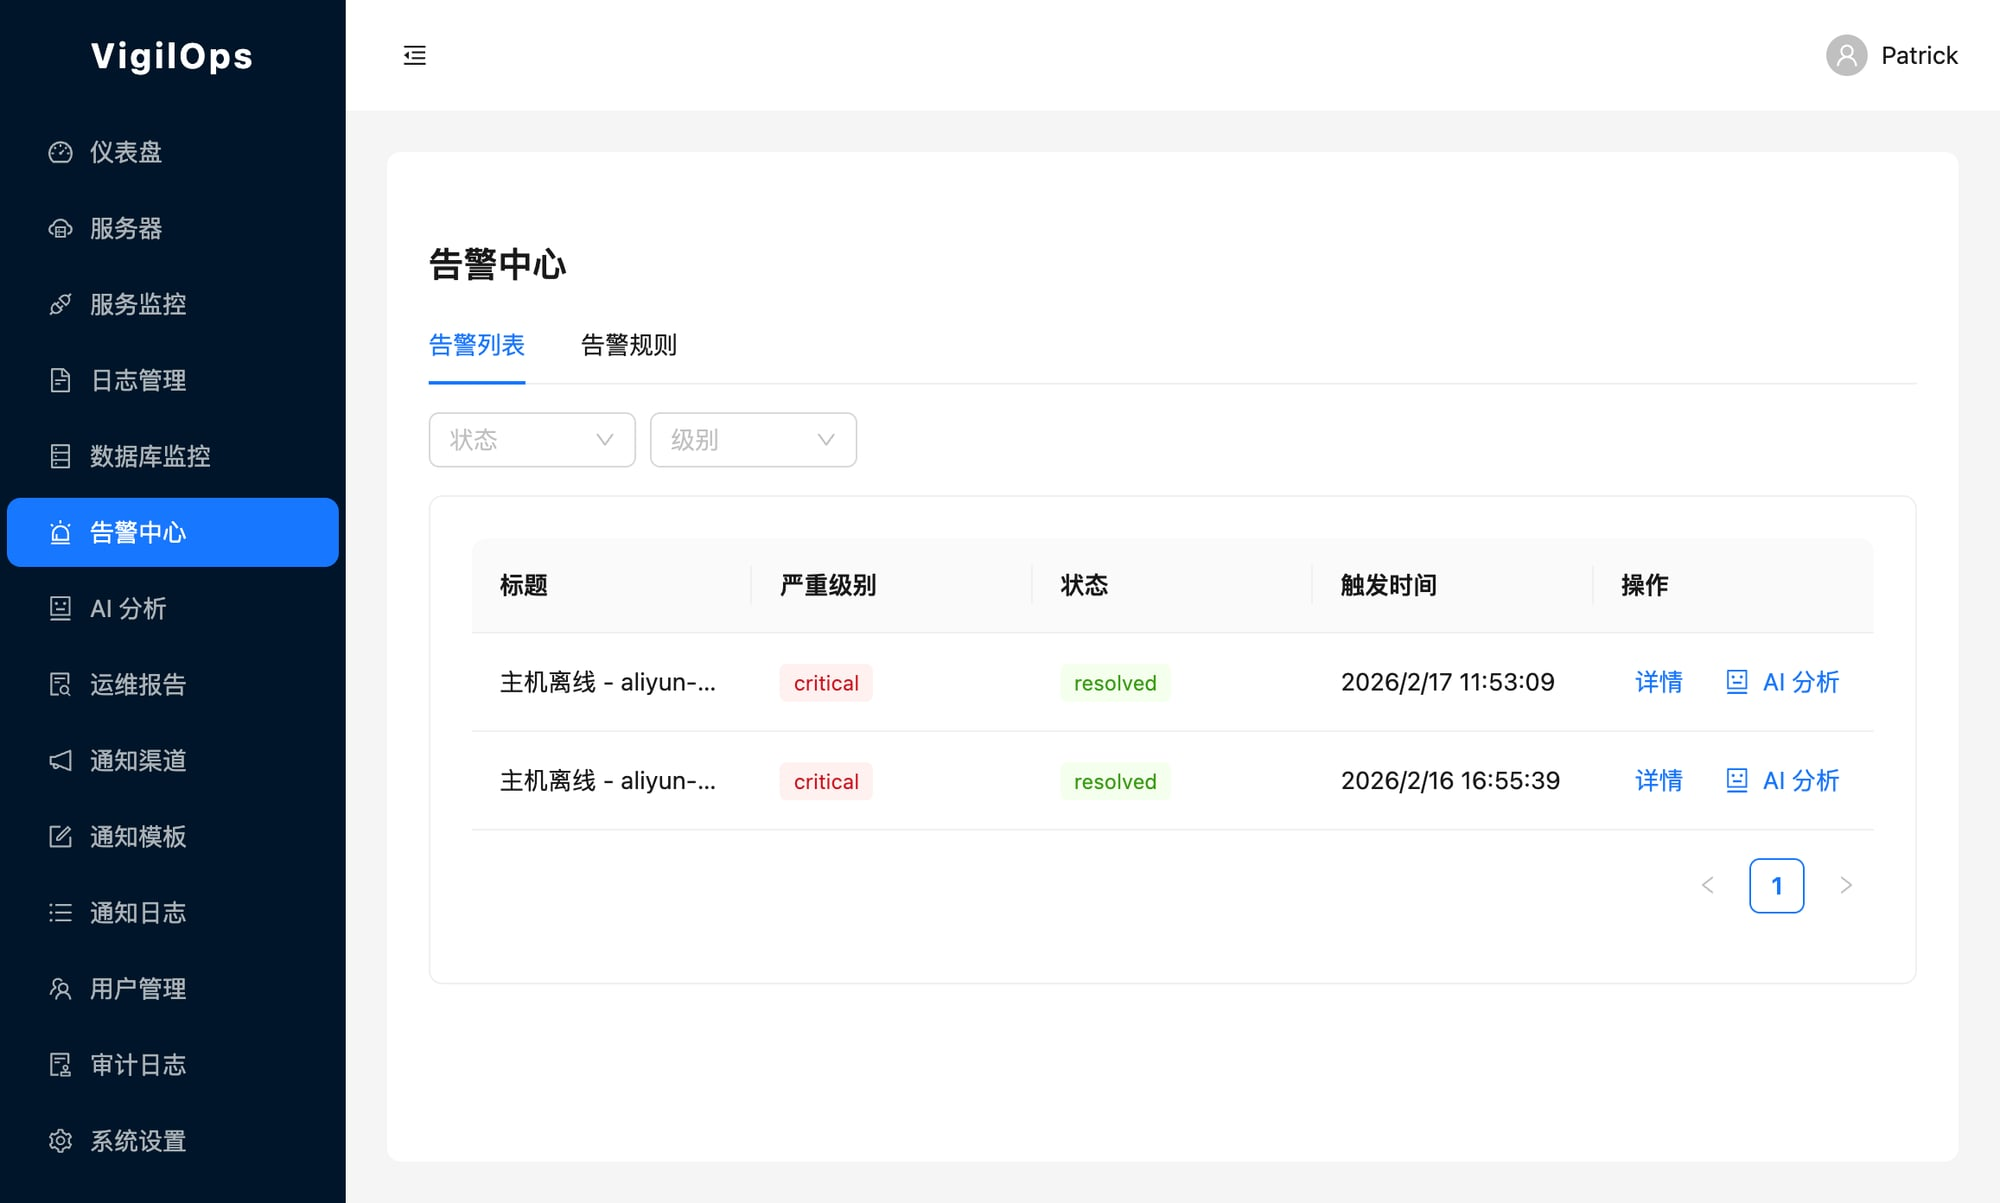
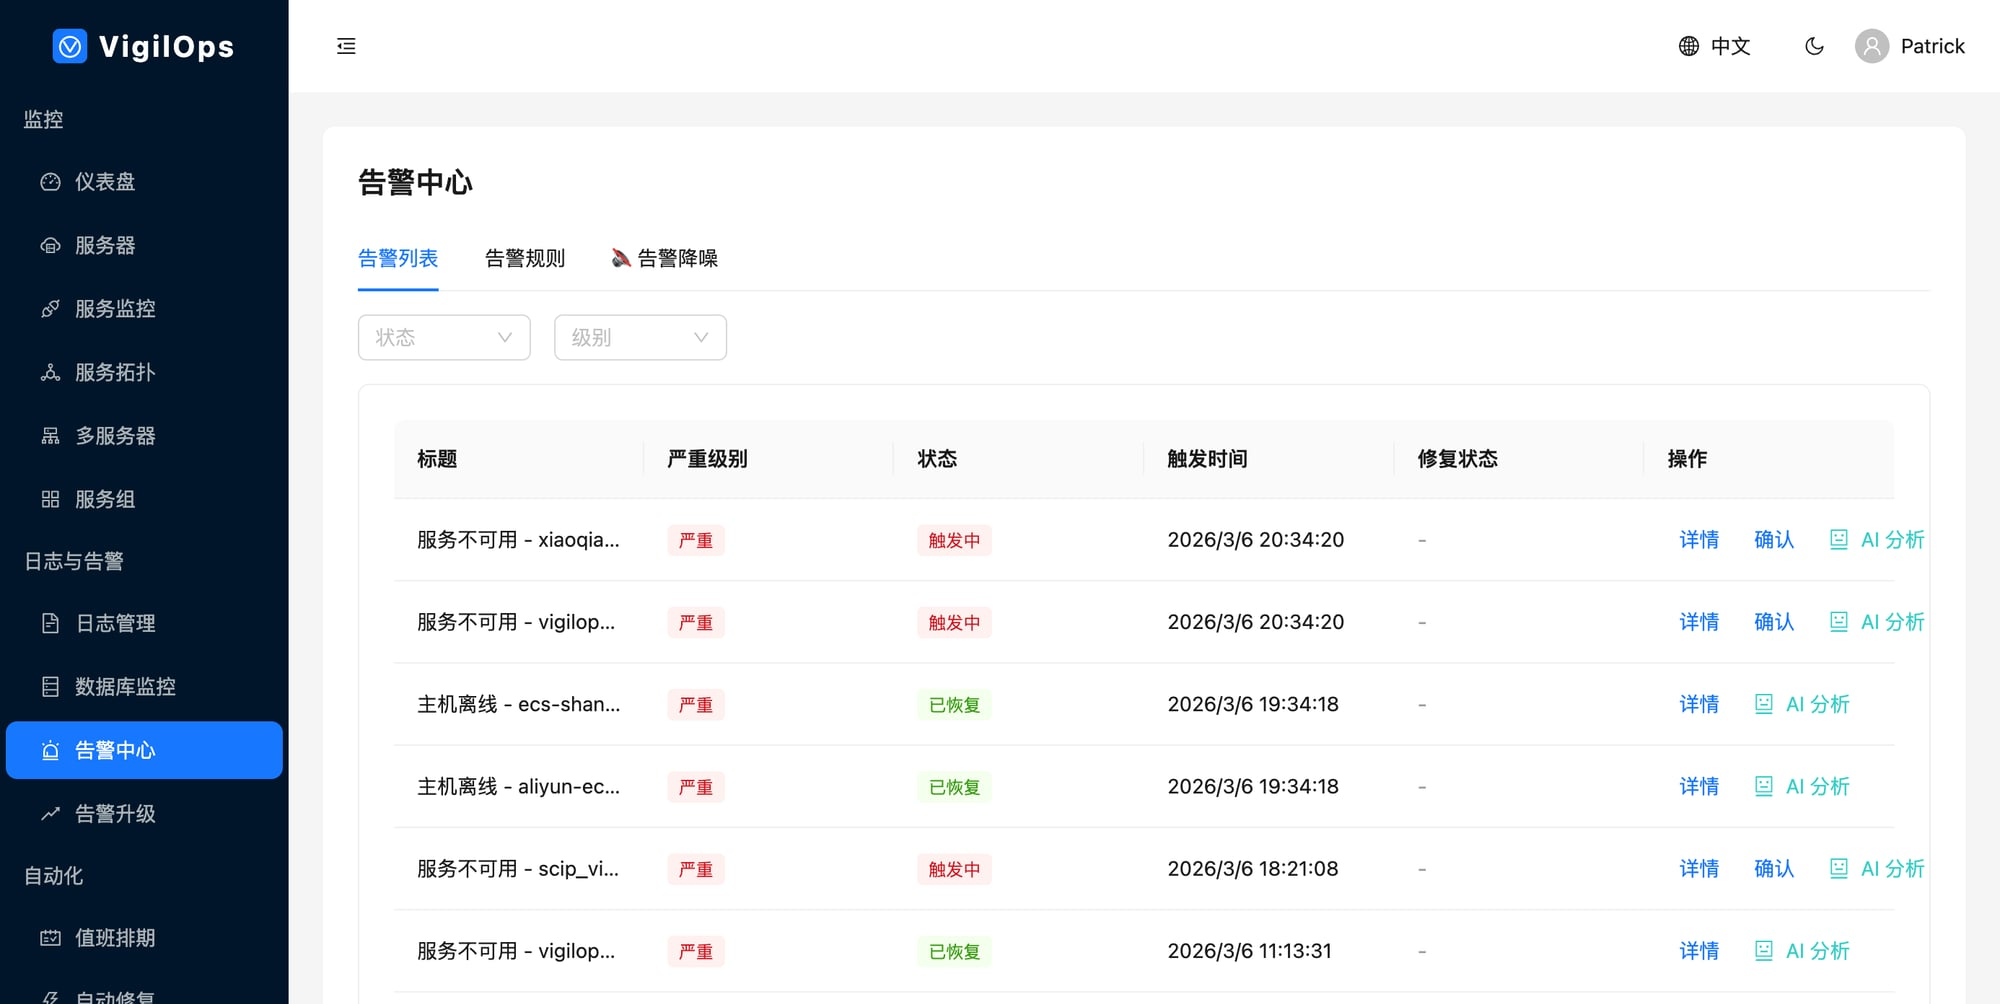
docs: refresh screenshots with latest UI

diff --git a/README.md b/README.md
@@ -75,8 +75,8 @@ The result: fewer alerts that wake you up, faster resolution when something real
 **Alert List — with AI-powered triage and auto-remediation status**
 ![Alerts](docs/screenshots/alerts.jpg)
 
-**Service Topology — visualize dependencies and failure propagation**
-![Topology](docs/screenshots/topology.jpg)
+**Auto-Remediation — automated runbook execution with audit trail**
+![Auto-Remediation](docs/screenshots/topology.jpg)
 
 </div>
 
